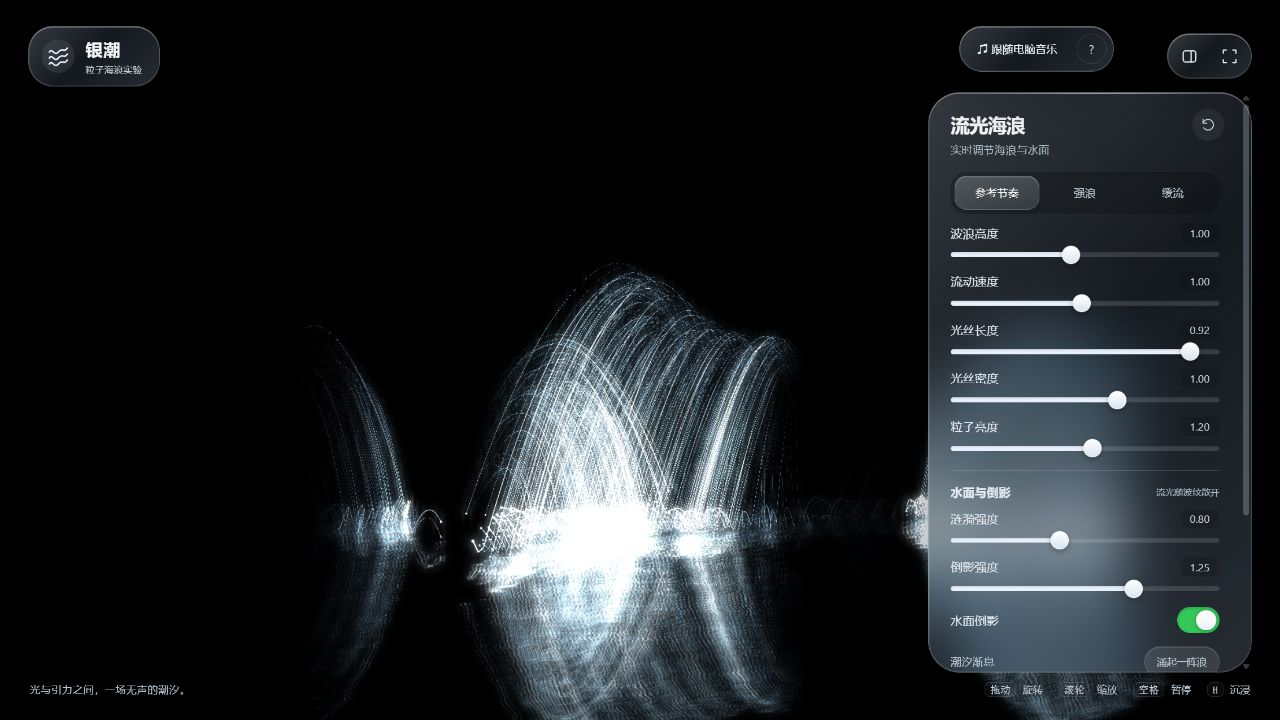
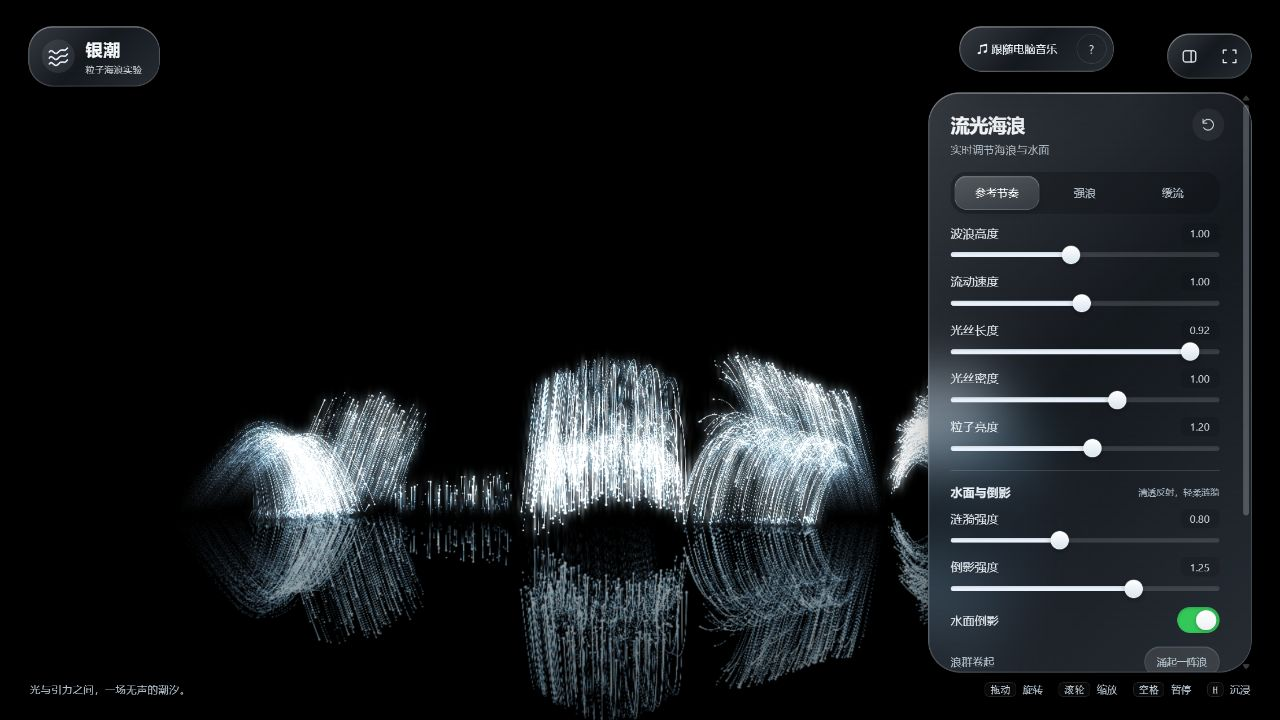
Refine water into a clear glasslike reflective surface

Changed region(s): [[0.1562, 0.3667, 0.9688, 1.0]]

diff --git a/downloads/silver-tide-standalone.html b/downloads/silver-tide-standalone.html
@@ -152,7 +152,7 @@ body.immersive .chrome *{pointer-events:none}
 <label for="trail">光丝长度 <output id="trail-out">0.92</output></label><input id="trail" type="range" min="0" max="1" step="0.01" value="0.92">
 <label for="density">光丝密度 <output id="density-out">1.00</output></label><input id="density" type="range" min="0.15" max="1.5" step="0.01" value="1">
 <label for="glow">粒子亮度 <output id="glow-out">1.20</output></label><input id="glow" type="range" min="0.3" max="2" step="0.01" value="1.2">
-<div class="water-controls"><span>水面与倒影</span><small>流光随波纹散开</small></div>
+<div class="water-controls"><span>水面与倒影</span><small>清透反射，轻柔涟漪</small></div>
 <label for="ripples">涟漪强度 <output id="ripples-out">0.80</output></label><input id="ripples" type="range" min="0" max="2" step="0.01" value="0.8">
 <label for="reflectivity">倒影强度 <output id="reflectivity-out">1.25</output></label><input id="reflectivity" type="range" min="0" max="1.8" step="0.01" value="1.25">
 </div>
@@ -271,7 +271,8 @@ void main(){
  if(uPoints<.5){vec2 d=(pb.xy/pb.w-pa.xy/pa.w)*uResolution;vec2 n=normalize(vec2(-d.y,d.x)+vec2(.0001));p.xy+=n*aCorner.x*aStyle.y*uScale*perspective/uResolution*p.w;}
  else p=pb;
  gl_Position=p;gl_PointSize=clamp((1.45+aStyle.y*1.3)*uScale*perspective,1.,7.);
- vAlpha=aStyle.x*(1.-smoothstep(48.,90.,p.w));vSide=aCorner.x;vTint=aStyle.z;
+ float surface=mix(.24,1.,smoothstep(.025,.38,mix(aStart.y,aEnd.y,aCorner.y)));
+ vAlpha=aStyle.x*surface*(1.-smoothstep(48.,90.,p.w));vSide=aCorner.x;vTint=aStyle.z;
 }`;
   const fragment=`precision highp float;
 uniform vec3 uColor;
@@ -298,43 +299,42 @@ uniform vec2 uTexel,uPointer;
 uniform vec4 uRings[3];
 uniform float uTime,uRipples,uReflection;
 varying vec2 vWorld;varying vec4 vClip;
-float hash(vec2 p){return fract(sin(dot(p,vec2(127.1,311.7)))*43758.5453);}
-float noise(vec2 p){vec2 i=floor(p),f=fract(p);f=f*f*(3.-2.*f);return mix(mix(hash(i),hash(i+vec2(1.,0.)),f.x),mix(hash(i+vec2(0.,1.)),hash(i+1.),f.x),f.y);}
 float height(vec2 p){
- float t=uTime;float h=sin(p.x*.8+p.y*2.4+t*.7)*.017+sin(p.x*1.8-p.y*4.3-t*.8)*.008;
- h+=(noise(p*vec2(2.2,5.1)+vec2(t*.15,-t*.25))-.5)*.015;
- float d=distance(p,uPointer);h+=sin(d*4.-t*4.)*exp(-d*.44)*.045;
- for(int i=0;i<3;i++){vec4 r=uRings[i];float d=distance(p,r.xy);float front=d-r.z*3.1;h+=sin(d*6.-r.z*13.)*exp(-front*front*.4-r.z*.8)*r.w*.07;}
+ float t=uTime;
+ float h=sin(p.x*.24+p.y*.39+t*.36)*.009+sin(p.x*.53-p.y*.21-t*.27)*.004;
+ float d=distance(p,uPointer);h+=sin(d*2.5-t*2.8)*exp(-d*.55)*.010;
+ for(int i=0;i<3;i++){vec4 r=uRings[i];float d=distance(p,r.xy);float front=d-r.z*2.7;h+=sin(front*3.7)*exp(-front*front*.85-r.z*1.05)*r.w*.022;}
  return h*uRipples;
 }
 void main(){
- vec2 p=vWorld;float h=height(p),e=.045;
+ vec2 p=vWorld;float h=height(p),e=.07;
  vec2 slope=vec2(height(p+vec2(e,0.))-h,height(p+vec2(0.,e))-h)/e;
  vec3 n=normalize(vec3(-slope.x,1.,-slope.y));vec3 eye=normalize(uEye-vec3(p.x,0.,p.y));
- float fresnel=.20+.8*pow(1.-max(0.,dot(n,eye)),3.);
+ float fresnel=.025+.975*pow(1.-max(0.,dot(n,eye)),5.);
  vec2 uv=vClip.xy/vClip.w*.5+.5;
- vec2 shift=vec2(slope.x*.022,slope.y*.017)*clamp(30./vClip.w,.4,2.);
+ vec2 shift=vec2(slope.x*.018,slope.y*.013)*clamp(30./vClip.w,.4,2.);
  uv+=shift;
- vec2 blur=uTexel*vec2(4.+abs(slope.y)*28.,.8);
- vec3 reflection=texture2D(uImage,clamp(uv,.001,.999)).rgb*.5+texture2D(uImage,clamp(uv+blur,.001,.999)).rgb*.25+texture2D(uImage,clamp(uv-blur,.001,.999)).rgb*.25;
- reflection*=uReflection*(.3+.8*fresnel*fresnel);
+ vec2 blur=uTexel*vec2(.65,.35);
+ vec3 reflection=texture2D(uImage,clamp(uv,.001,.999)).rgb*.86+texture2D(uImage,clamp(uv+blur,.001,.999)).rgb*.07+texture2D(uImage,clamp(uv-blur,.001,.999)).rgb*.07;
+ reflection=reflection/(1.+reflection*.32);
+ reflection*=vec3(.90,.97,1.)*uReflection*(.24+.82*fresnel);
  float attenuation=1.-smoothstep(40.,100.,length(uEye-vec3(p.x,0.,p.y)));
- gl_FragColor=vec4((reflection+vec3(.0002,.0006,.0011))*attenuation,1.);
+ gl_FragColor=vec4((reflection+vec3(.00003,.00008,.00013))*attenuation,1.);
 }`;
   this.water=this.link(waterVertex,waterFragment);this.wa=gl.getAttribLocation(this.water,'aPosition');this.wu=this.uniforms(this.water,['VP','Image','Eye','Color','Texel','Pointer','Time','Ripples','Reflection']);this.wu.Rings=gl.getUniformLocation(this.water,'uRings[0]');
   this.plane=gl.createBuffer();gl.bindBuffer(gl.ARRAY_BUFFER,this.plane);gl.bufferData(gl.ARRAY_BUFFER,new Float32Array([-100,-85,100,-85,-100,35,-100,35,100,-85,100,35]),gl.STATIC_DRAW);
   const blurFragment=`precision highp float;uniform sampler2D uImage;uniform vec2 uStep;varying vec2 vUV;void main(){vec3 c=texture2D(uImage,vUV).rgb*.227027;c+=texture2D(uImage,vUV+uStep*1.384615).rgb*.316216;c+=texture2D(uImage,vUV-uStep*1.384615).rgb*.316216;c+=texture2D(uImage,vUV+uStep*3.230769).rgb*.07027;c+=texture2D(uImage,vUV-uStep*3.230769).rgb*.07027;gl_FragColor=vec4(c,1.);}`;
   this.blur=this.link(screenVertex,blurFragment);this.ba=gl.getAttribLocation(this.blur,'aPosition');this.bu=this.uniforms(this.blur,['Image','Step']);
-  const finalFragment=`precision highp float;uniform sampler2D uImage,uBloom;uniform float uGlow;varying vec2 vUV;void main(){vec3 c=texture2D(uImage,vUV).rgb;vec3 b=texture2D(uBloom,vUV).rgb;c=c+b*uGlow*.92;c=pow(max(c,vec3(0.)),vec3(.92));gl_FragColor=vec4(c,1.);}`;
-  this.finish=this.link(screenVertex,finalFragment);this.ca=gl.getAttribLocation(this.finish,'aPosition');this.cu=this.uniforms(this.finish,['Image','Bloom','Glow']);
+  const finalFragment=`precision highp float;uniform sampler2D uImage,uLight,uBloom;uniform float uGlow;varying vec2 vUV;void main(){vec3 c=texture2D(uImage,vUV).rgb+texture2D(uLight,vUV).rgb;vec3 b=texture2D(uBloom,vUV).rgb;c=c+b*uGlow*.92;c=pow(max(c,vec3(0.)),vec3(.92));gl_FragColor=vec4(c,1.);}`;
+  this.finish=this.link(screenVertex,finalFragment);this.ca=gl.getAttribLocation(this.finish,'aPosition');this.cu=this.uniforms(this.finish,['Image','Light','Bloom','Glow']);
   this.screen=gl.createBuffer();gl.bindBuffer(gl.ARRAY_BUFFER,this.screen);gl.bufferData(gl.ARRAY_BUFFER,new Float32Array([-1,-1,1,-1,-1,1,-1,1,1,-1,1,1]),gl.STATIC_DRAW);
-  this.targets={mirror:this.target(),scene:this.target(),blurA:this.target(),blurB:this.target()};gl.disable(gl.DEPTH_TEST);gl.blendFunc(gl.ONE,gl.ONE);
+  this.targets={mirror:this.target(),scene:this.target(),light:this.target(),blurA:this.target(),blurB:this.target()};gl.disable(gl.DEPTH_TEST);gl.blendFunc(gl.ONE,gl.ONE);
  }
  link(v,f){const gl=this.gl,p=gl.createProgram();for(const [type,src] of [[gl.VERTEX_SHADER,v],[gl.FRAGMENT_SHADER,f]]){const s=gl.createShader(type);gl.shaderSource(s,src);gl.compileShader(s);if(!gl.getShaderParameter(s,gl.COMPILE_STATUS))throw Error(gl.getShaderInfoLog(s));gl.attachShader(p,s);}gl.linkProgram(p);if(!gl.getProgramParameter(p,gl.LINK_STATUS))throw Error(gl.getProgramInfoLog(p));return p;}
  uniforms(p,names){const o={};names.forEach(n=>o[n]=this.gl.getUniformLocation(p,'u'+n));return o;}
  target(){const gl=this.gl,t={texture:gl.createTexture(),fbo:gl.createFramebuffer()};gl.bindTexture(gl.TEXTURE_2D,t.texture);gl.texParameteri(gl.TEXTURE_2D,gl.TEXTURE_MIN_FILTER,gl.LINEAR);gl.texParameteri(gl.TEXTURE_2D,gl.TEXTURE_MAG_FILTER,gl.LINEAR);gl.texParameteri(gl.TEXTURE_2D,gl.TEXTURE_WRAP_S,gl.CLAMP_TO_EDGE);gl.texParameteri(gl.TEXTURE_2D,gl.TEXTURE_WRAP_T,gl.CLAMP_TO_EDGE);return t;}
  sizeTarget(t,w,h){const gl=this.gl;t.width=w;t.height=h;gl.bindTexture(gl.TEXTURE_2D,t.texture);gl.texImage2D(gl.TEXTURE_2D,0,gl.RGBA,w,h,0,gl.RGBA,gl.UNSIGNED_BYTE,null);gl.bindFramebuffer(gl.FRAMEBUFFER,t.fbo);gl.framebufferTexture2D(gl.FRAMEBUFFER,gl.COLOR_ATTACHMENT0,gl.TEXTURE_2D,t.texture,0);if(gl.checkFramebufferStatus(gl.FRAMEBUFFER)!==gl.FRAMEBUFFER_COMPLETE)throw Error('无法创建反射画面');}
- resize(w,h){this.width=w;this.height=h;this.sizeTarget(this.targets.scene,w,h);const s=Math.min(1,1600/w);this.sizeTarget(this.targets.mirror,Math.max(1,Math.round(w*s)),Math.max(1,Math.round(h*s)));for(const k of ['blurA','blurB'])this.sizeTarget(this.targets[k],Math.max(1,Math.round(w/4)),Math.max(1,Math.round(h/4)));this.gl.bindFramebuffer(this.gl.FRAMEBUFFER,null);}
+ resize(w,h){this.width=w;this.height=h;this.sizeTarget(this.targets.scene,w,h);this.sizeTarget(this.targets.light,w,h);const s=Math.min(1,1600/w);this.sizeTarget(this.targets.mirror,Math.max(1,Math.round(w*s)),Math.max(1,Math.round(h*s)));for(const k of ['blurA','blurB'])this.sizeTarget(this.targets[k],Math.max(1,Math.round(w/4)),Math.max(1,Math.round(h/4)));this.gl.bindFramebuffer(this.gl.FRAMEBUFFER,null);}
  upload(ocean,length,visibility=1){
   const h=ocean.history,N=FilamentOcean.HISTORY;let k=0,head=0;const maxAge=Math.max(2,Math.round((N-1)*length));
   for(const p of ocean.particles){
@@ -371,15 +371,16 @@ void main(){
  screenPass(program,loc){const gl=this.gl;this.disable();gl.useProgram(program);gl.disable(gl.BLEND);gl.bindBuffer(gl.ARRAY_BUFFER,this.screen);gl.enableVertexAttribArray(loc);gl.vertexAttribPointer(loc,2,gl.FLOAT,false,0,0);}
  render(vp,eye,params,ocean,pointer,color,drive,dpr){
   const gl=this.gl,t=this.targets,gain=2.6*params.glow,height=params.heightScale??1;
-  gl.activeTexture(gl.TEXTURE0);gl.bindTexture(gl.TEXTURE_2D,null);gl.activeTexture(gl.TEXTURE1);gl.bindTexture(gl.TEXTURE_2D,null);gl.activeTexture(gl.TEXTURE0);
-  this.bind(t.mirror);gl.clearColor(0,0,0,1);gl.clear(gl.COLOR_BUFFER_BIT);if(params.reflection)this.drawFibers(vp,1,t.mirror.width,t.mirror.height,dpr*t.mirror.width/this.width,color,gain,height);
+  gl.activeTexture(gl.TEXTURE2);gl.bindTexture(gl.TEXTURE_2D,null);gl.activeTexture(gl.TEXTURE1);gl.bindTexture(gl.TEXTURE_2D,null);gl.activeTexture(gl.TEXTURE0);gl.bindTexture(gl.TEXTURE_2D,null);
+  this.bind(t.mirror);gl.clearColor(0,0,0,1);gl.clear(gl.COLOR_BUFFER_BIT);if(params.reflection)this.drawFibers(vp,1,t.mirror.width,t.mirror.height,dpr*t.mirror.width/this.width,color,gain*.70,height);
   this.bind(t.scene);gl.clear(gl.COLOR_BUFFER_BIT);this.disable();gl.useProgram(this.water);gl.disable(gl.BLEND);gl.bindBuffer(gl.ARRAY_BUFFER,this.plane);gl.enableVertexAttribArray(this.wa);gl.vertexAttribPointer(this.wa,2,gl.FLOAT,false,0,0);
   const u=this.wu;gl.uniformMatrix4fv(u.VP,false,vp);gl.uniform3fv(u.Eye,eye);gl.uniform3fv(u.Color,color);gl.uniform2f(u.Texel,1/t.mirror.width,1/t.mirror.height);gl.uniform2fv(u.Pointer,pointer);gl.uniform1f(u.Time,ocean.clock);gl.uniform1f(u.Ripples,params.ripples);gl.uniform1f(u.Reflection,params.reflection?params.reflectivity:0);
   const rings=new Float32Array(12);for(let i=0;i<3;i++){const r=ocean.rings[i];rings.set(r?[r.x,r.z,ocean.clock-r.born,r.strength]:[80,80,100,0],i*4);}gl.uniform4fv(u.Rings,rings);gl.bindTexture(gl.TEXTURE_2D,t.mirror.texture);gl.uniform1i(u.Image,0);gl.drawArrays(gl.TRIANGLES,0,6);
-  this.drawFibers(vp,0,this.width,this.height,dpr,color,gain,height);
-  this.bind(t.blurA);this.screenPass(this.blur,this.ba);gl.bindTexture(gl.TEXTURE_2D,t.scene.texture);gl.uniform1i(this.bu.Image,0);gl.uniform2f(this.bu.Step,1/t.blurA.width,0);gl.drawArrays(gl.TRIANGLES,0,6);
+  // Filament light blooms independently of the polished, non-emissive water.
+  this.bind(t.light);gl.clear(gl.COLOR_BUFFER_BIT);this.drawFibers(vp,0,this.width,this.height,dpr,color,gain,height);
+  this.bind(t.blurA);this.screenPass(this.blur,this.ba);gl.bindTexture(gl.TEXTURE_2D,t.light.texture);gl.uniform1i(this.bu.Image,0);gl.uniform2f(this.bu.Step,1/t.blurA.width,0);gl.drawArrays(gl.TRIANGLES,0,6);
   this.bind(t.blurB);this.screenPass(this.blur,this.ba);gl.bindTexture(gl.TEXTURE_2D,t.blurA.texture);gl.uniform2f(this.bu.Step,0,1/t.blurB.height);gl.drawArrays(gl.TRIANGLES,0,6);
-  this.bind(null);this.screenPass(this.finish,this.ca);gl.bindTexture(gl.TEXTURE_2D,t.scene.texture);gl.uniform1i(this.cu.Image,0);gl.activeTexture(gl.TEXTURE1);gl.bindTexture(gl.TEXTURE_2D,t.blurB.texture);gl.uniform1i(this.cu.Bloom,1);gl.uniform1f(this.cu.Glow,params.glow);gl.drawArrays(gl.TRIANGLES,0,6);gl.activeTexture(gl.TEXTURE0);this.disable();
+  this.bind(null);this.screenPass(this.finish,this.ca);gl.bindTexture(gl.TEXTURE_2D,t.scene.texture);gl.uniform1i(this.cu.Image,0);gl.activeTexture(gl.TEXTURE1);gl.bindTexture(gl.TEXTURE_2D,t.blurB.texture);gl.uniform1i(this.cu.Bloom,1);gl.activeTexture(gl.TEXTURE2);gl.bindTexture(gl.TEXTURE_2D,t.light.texture);gl.uniform1i(this.cu.Light,2);gl.uniform1f(this.cu.Glow,params.glow);gl.drawArrays(gl.TRIANGLES,0,6);gl.activeTexture(gl.TEXTURE0);this.disable();
  }
 };
 })(globalThis);

diff --git a/web/filament-renderer.js b/web/filament-renderer.js
@@ -20,7 +20,8 @@ void main(){
  if(uPoints<.5){vec2 d=(pb.xy/pb.w-pa.xy/pa.w)*uResolution;vec2 n=normalize(vec2(-d.y,d.x)+vec2(.0001));p.xy+=n*aCorner.x*aStyle.y*uScale*perspective/uResolution*p.w;}
  else p=pb;
  gl_Position=p;gl_PointSize=clamp((1.45+aStyle.y*1.3)*uScale*perspective,1.,7.);
- vAlpha=aStyle.x*(1.-smoothstep(48.,90.,p.w));vSide=aCorner.x;vTint=aStyle.z;
+ float surface=mix(.24,1.,smoothstep(.025,.38,mix(aStart.y,aEnd.y,aCorner.y)));
+ vAlpha=aStyle.x*surface*(1.-smoothstep(48.,90.,p.w));vSide=aCorner.x;vTint=aStyle.z;
 }`;
   const fragment=`precision highp float;
 uniform vec3 uColor;
@@ -47,43 +48,42 @@ uniform vec2 uTexel,uPointer;
 uniform vec4 uRings[3];
 uniform float uTime,uRipples,uReflection;
 varying vec2 vWorld;varying vec4 vClip;
-float hash(vec2 p){return fract(sin(dot(p,vec2(127.1,311.7)))*43758.5453);}
-float noise(vec2 p){vec2 i=floor(p),f=fract(p);f=f*f*(3.-2.*f);return mix(mix(hash(i),hash(i+vec2(1.,0.)),f.x),mix(hash(i+vec2(0.,1.)),hash(i+1.),f.x),f.y);}
 float height(vec2 p){
- float t=uTime;float h=sin(p.x*.8+p.y*2.4+t*.7)*.017+sin(p.x*1.8-p.y*4.3-t*.8)*.008;
- h+=(noise(p*vec2(2.2,5.1)+vec2(t*.15,-t*.25))-.5)*.015;
- float d=distance(p,uPointer);h+=sin(d*4.-t*4.)*exp(-d*.44)*.045;
- for(int i=0;i<3;i++){vec4 r=uRings[i];float d=distance(p,r.xy);float front=d-r.z*3.1;h+=sin(d*6.-r.z*13.)*exp(-front*front*.4-r.z*.8)*r.w*.07;}
+ float t=uTime;
+ float h=sin(p.x*.24+p.y*.39+t*.36)*.009+sin(p.x*.53-p.y*.21-t*.27)*.004;
+ float d=distance(p,uPointer);h+=sin(d*2.5-t*2.8)*exp(-d*.55)*.010;
+ for(int i=0;i<3;i++){vec4 r=uRings[i];float d=distance(p,r.xy);float front=d-r.z*2.7;h+=sin(front*3.7)*exp(-front*front*.85-r.z*1.05)*r.w*.022;}
  return h*uRipples;
 }
 void main(){
- vec2 p=vWorld;float h=height(p),e=.045;
+ vec2 p=vWorld;float h=height(p),e=.07;
  vec2 slope=vec2(height(p+vec2(e,0.))-h,height(p+vec2(0.,e))-h)/e;
  vec3 n=normalize(vec3(-slope.x,1.,-slope.y));vec3 eye=normalize(uEye-vec3(p.x,0.,p.y));
- float fresnel=.20+.8*pow(1.-max(0.,dot(n,eye)),3.);
+ float fresnel=.025+.975*pow(1.-max(0.,dot(n,eye)),5.);
  vec2 uv=vClip.xy/vClip.w*.5+.5;
- vec2 shift=vec2(slope.x*.022,slope.y*.017)*clamp(30./vClip.w,.4,2.);
+ vec2 shift=vec2(slope.x*.018,slope.y*.013)*clamp(30./vClip.w,.4,2.);
  uv+=shift;
- vec2 blur=uTexel*vec2(4.+abs(slope.y)*28.,.8);
- vec3 reflection=texture2D(uImage,clamp(uv,.001,.999)).rgb*.5+texture2D(uImage,clamp(uv+blur,.001,.999)).rgb*.25+texture2D(uImage,clamp(uv-blur,.001,.999)).rgb*.25;
- reflection*=uReflection*(.3+.8*fresnel*fresnel);
+ vec2 blur=uTexel*vec2(.65,.35);
+ vec3 reflection=texture2D(uImage,clamp(uv,.001,.999)).rgb*.86+texture2D(uImage,clamp(uv+blur,.001,.999)).rgb*.07+texture2D(uImage,clamp(uv-blur,.001,.999)).rgb*.07;
+ reflection=reflection/(1.+reflection*.32);
+ reflection*=vec3(.90,.97,1.)*uReflection*(.24+.82*fresnel);
  float attenuation=1.-smoothstep(40.,100.,length(uEye-vec3(p.x,0.,p.y)));
- gl_FragColor=vec4((reflection+vec3(.0002,.0006,.0011))*attenuation,1.);
+ gl_FragColor=vec4((reflection+vec3(.00003,.00008,.00013))*attenuation,1.);
 }`;
   this.water=this.link(waterVertex,waterFragment);this.wa=gl.getAttribLocation(this.water,'aPosition');this.wu=this.uniforms(this.water,['VP','Image','Eye','Color','Texel','Pointer','Time','Ripples','Reflection']);this.wu.Rings=gl.getUniformLocation(this.water,'uRings[0]');
   this.plane=gl.createBuffer();gl.bindBuffer(gl.ARRAY_BUFFER,this.plane);gl.bufferData(gl.ARRAY_BUFFER,new Float32Array([-100,-85,100,-85,-100,35,-100,35,100,-85,100,35]),gl.STATIC_DRAW);
   const blurFragment=`precision highp float;uniform sampler2D uImage;uniform vec2 uStep;varying vec2 vUV;void main(){vec3 c=texture2D(uImage,vUV).rgb*.227027;c+=texture2D(uImage,vUV+uStep*1.384615).rgb*.316216;c+=texture2D(uImage,vUV-uStep*1.384615).rgb*.316216;c+=texture2D(uImage,vUV+uStep*3.230769).rgb*.07027;c+=texture2D(uImage,vUV-uStep*3.230769).rgb*.07027;gl_FragColor=vec4(c,1.);}`;
   this.blur=this.link(screenVertex,blurFragment);this.ba=gl.getAttribLocation(this.blur,'aPosition');this.bu=this.uniforms(this.blur,['Image','Step']);
-  const finalFragment=`precision highp float;uniform sampler2D uImage,uBloom;uniform float uGlow;varying vec2 vUV;void main(){vec3 c=texture2D(uImage,vUV).rgb;vec3 b=texture2D(uBloom,vUV).rgb;c=c+b*uGlow*.92;c=pow(max(c,vec3(0.)),vec3(.92));gl_FragColor=vec4(c,1.);}`;
-  this.finish=this.link(screenVertex,finalFragment);this.ca=gl.getAttribLocation(this.finish,'aPosition');this.cu=this.uniforms(this.finish,['Image','Bloom','Glow']);
+  const finalFragment=`precision highp float;uniform sampler2D uImage,uLight,uBloom;uniform float uGlow;varying vec2 vUV;void main(){vec3 c=texture2D(uImage,vUV).rgb+texture2D(uLight,vUV).rgb;vec3 b=texture2D(uBloom,vUV).rgb;c=c+b*uGlow*.92;c=pow(max(c,vec3(0.)),vec3(.92));gl_FragColor=vec4(c,1.);}`;
+  this.finish=this.link(screenVertex,finalFragment);this.ca=gl.getAttribLocation(this.finish,'aPosition');this.cu=this.uniforms(this.finish,['Image','Light','Bloom','Glow']);
   this.screen=gl.createBuffer();gl.bindBuffer(gl.ARRAY_BUFFER,this.screen);gl.bufferData(gl.ARRAY_BUFFER,new Float32Array([-1,-1,1,-1,-1,1,-1,1,1,-1,1,1]),gl.STATIC_DRAW);
-  this.targets={mirror:this.target(),scene:this.target(),blurA:this.target(),blurB:this.target()};gl.disable(gl.DEPTH_TEST);gl.blendFunc(gl.ONE,gl.ONE);
+  this.targets={mirror:this.target(),scene:this.target(),light:this.target(),blurA:this.target(),blurB:this.target()};gl.disable(gl.DEPTH_TEST);gl.blendFunc(gl.ONE,gl.ONE);
  }
  link(v,f){const gl=this.gl,p=gl.createProgram();for(const [type,src] of [[gl.VERTEX_SHADER,v],[gl.FRAGMENT_SHADER,f]]){const s=gl.createShader(type);gl.shaderSource(s,src);gl.compileShader(s);if(!gl.getShaderParameter(s,gl.COMPILE_STATUS))throw Error(gl.getShaderInfoLog(s));gl.attachShader(p,s);}gl.linkProgram(p);if(!gl.getProgramParameter(p,gl.LINK_STATUS))throw Error(gl.getProgramInfoLog(p));return p;}
  uniforms(p,names){const o={};names.forEach(n=>o[n]=this.gl.getUniformLocation(p,'u'+n));return o;}
  target(){const gl=this.gl,t={texture:gl.createTexture(),fbo:gl.createFramebuffer()};gl.bindTexture(gl.TEXTURE_2D,t.texture);gl.texParameteri(gl.TEXTURE_2D,gl.TEXTURE_MIN_FILTER,gl.LINEAR);gl.texParameteri(gl.TEXTURE_2D,gl.TEXTURE_MAG_FILTER,gl.LINEAR);gl.texParameteri(gl.TEXTURE_2D,gl.TEXTURE_WRAP_S,gl.CLAMP_TO_EDGE);gl.texParameteri(gl.TEXTURE_2D,gl.TEXTURE_WRAP_T,gl.CLAMP_TO_EDGE);return t;}
  sizeTarget(t,w,h){const gl=this.gl;t.width=w;t.height=h;gl.bindTexture(gl.TEXTURE_2D,t.texture);gl.texImage2D(gl.TEXTURE_2D,0,gl.RGBA,w,h,0,gl.RGBA,gl.UNSIGNED_BYTE,null);gl.bindFramebuffer(gl.FRAMEBUFFER,t.fbo);gl.framebufferTexture2D(gl.FRAMEBUFFER,gl.COLOR_ATTACHMENT0,gl.TEXTURE_2D,t.texture,0);if(gl.checkFramebufferStatus(gl.FRAMEBUFFER)!==gl.FRAMEBUFFER_COMPLETE)throw Error('无法创建反射画面');}
- resize(w,h){this.width=w;this.height=h;this.sizeTarget(this.targets.scene,w,h);const s=Math.min(1,1600/w);this.sizeTarget(this.targets.mirror,Math.max(1,Math.round(w*s)),Math.max(1,Math.round(h*s)));for(const k of ['blurA','blurB'])this.sizeTarget(this.targets[k],Math.max(1,Math.round(w/4)),Math.max(1,Math.round(h/4)));this.gl.bindFramebuffer(this.gl.FRAMEBUFFER,null);}
+ resize(w,h){this.width=w;this.height=h;this.sizeTarget(this.targets.scene,w,h);this.sizeTarget(this.targets.light,w,h);const s=Math.min(1,1600/w);this.sizeTarget(this.targets.mirror,Math.max(1,Math.round(w*s)),Math.max(1,Math.round(h*s)));for(const k of ['blurA','blurB'])this.sizeTarget(this.targets[k],Math.max(1,Math.round(w/4)),Math.max(1,Math.round(h/4)));this.gl.bindFramebuffer(this.gl.FRAMEBUFFER,null);}
  upload(ocean,length,visibility=1){
   const h=ocean.history,N=FilamentOcean.HISTORY;let k=0,head=0;const maxAge=Math.max(2,Math.round((N-1)*length));
   for(const p of ocean.particles){
@@ -120,15 +120,16 @@ void main(){
  screenPass(program,loc){const gl=this.gl;this.disable();gl.useProgram(program);gl.disable(gl.BLEND);gl.bindBuffer(gl.ARRAY_BUFFER,this.screen);gl.enableVertexAttribArray(loc);gl.vertexAttribPointer(loc,2,gl.FLOAT,false,0,0);}
  render(vp,eye,params,ocean,pointer,color,drive,dpr){
   const gl=this.gl,t=this.targets,gain=2.6*params.glow,height=params.heightScale??1;
-  gl.activeTexture(gl.TEXTURE0);gl.bindTexture(gl.TEXTURE_2D,null);gl.activeTexture(gl.TEXTURE1);gl.bindTexture(gl.TEXTURE_2D,null);gl.activeTexture(gl.TEXTURE0);
-  this.bind(t.mirror);gl.clearColor(0,0,0,1);gl.clear(gl.COLOR_BUFFER_BIT);if(params.reflection)this.drawFibers(vp,1,t.mirror.width,t.mirror.height,dpr*t.mirror.width/this.width,color,gain,height);
+  gl.activeTexture(gl.TEXTURE2);gl.bindTexture(gl.TEXTURE_2D,null);gl.activeTexture(gl.TEXTURE1);gl.bindTexture(gl.TEXTURE_2D,null);gl.activeTexture(gl.TEXTURE0);gl.bindTexture(gl.TEXTURE_2D,null);
+  this.bind(t.mirror);gl.clearColor(0,0,0,1);gl.clear(gl.COLOR_BUFFER_BIT);if(params.reflection)this.drawFibers(vp,1,t.mirror.width,t.mirror.height,dpr*t.mirror.width/this.width,color,gain*.70,height);
   this.bind(t.scene);gl.clear(gl.COLOR_BUFFER_BIT);this.disable();gl.useProgram(this.water);gl.disable(gl.BLEND);gl.bindBuffer(gl.ARRAY_BUFFER,this.plane);gl.enableVertexAttribArray(this.wa);gl.vertexAttribPointer(this.wa,2,gl.FLOAT,false,0,0);
   const u=this.wu;gl.uniformMatrix4fv(u.VP,false,vp);gl.uniform3fv(u.Eye,eye);gl.uniform3fv(u.Color,color);gl.uniform2f(u.Texel,1/t.mirror.width,1/t.mirror.height);gl.uniform2fv(u.Pointer,pointer);gl.uniform1f(u.Time,ocean.clock);gl.uniform1f(u.Ripples,params.ripples);gl.uniform1f(u.Reflection,params.reflection?params.reflectivity:0);
   const rings=new Float32Array(12);for(let i=0;i<3;i++){const r=ocean.rings[i];rings.set(r?[r.x,r.z,ocean.clock-r.born,r.strength]:[80,80,100,0],i*4);}gl.uniform4fv(u.Rings,rings);gl.bindTexture(gl.TEXTURE_2D,t.mirror.texture);gl.uniform1i(u.Image,0);gl.drawArrays(gl.TRIANGLES,0,6);
-  this.drawFibers(vp,0,this.width,this.height,dpr,color,gain,height);
-  this.bind(t.blurA);this.screenPass(this.blur,this.ba);gl.bindTexture(gl.TEXTURE_2D,t.scene.texture);gl.uniform1i(this.bu.Image,0);gl.uniform2f(this.bu.Step,1/t.blurA.width,0);gl.drawArrays(gl.TRIANGLES,0,6);
+  // Filament light blooms independently of the polished, non-emissive water.
+  this.bind(t.light);gl.clear(gl.COLOR_BUFFER_BIT);this.drawFibers(vp,0,this.width,this.height,dpr,color,gain,height);
+  this.bind(t.blurA);this.screenPass(this.blur,this.ba);gl.bindTexture(gl.TEXTURE_2D,t.light.texture);gl.uniform1i(this.bu.Image,0);gl.uniform2f(this.bu.Step,1/t.blurA.width,0);gl.drawArrays(gl.TRIANGLES,0,6);
   this.bind(t.blurB);this.screenPass(this.blur,this.ba);gl.bindTexture(gl.TEXTURE_2D,t.blurA.texture);gl.uniform2f(this.bu.Step,0,1/t.blurB.height);gl.drawArrays(gl.TRIANGLES,0,6);
-  this.bind(null);this.screenPass(this.finish,this.ca);gl.bindTexture(gl.TEXTURE_2D,t.scene.texture);gl.uniform1i(this.cu.Image,0);gl.activeTexture(gl.TEXTURE1);gl.bindTexture(gl.TEXTURE_2D,t.blurB.texture);gl.uniform1i(this.cu.Bloom,1);gl.uniform1f(this.cu.Glow,params.glow);gl.drawArrays(gl.TRIANGLES,0,6);gl.activeTexture(gl.TEXTURE0);this.disable();
+  this.bind(null);this.screenPass(this.finish,this.ca);gl.bindTexture(gl.TEXTURE_2D,t.scene.texture);gl.uniform1i(this.cu.Image,0);gl.activeTexture(gl.TEXTURE1);gl.bindTexture(gl.TEXTURE_2D,t.blurB.texture);gl.uniform1i(this.cu.Bloom,1);gl.activeTexture(gl.TEXTURE2);gl.bindTexture(gl.TEXTURE_2D,t.light.texture);gl.uniform1i(this.cu.Light,2);gl.uniform1f(this.cu.Glow,params.glow);gl.drawArrays(gl.TRIANGLES,0,6);gl.activeTexture(gl.TEXTURE0);this.disable();
  }
 };
 })(globalThis);

diff --git a/web/index.html b/web/index.html
@@ -4,7 +4,7 @@
 <meta charset="utf-8"><meta name="viewport" content="width=device-width, initial-scale=1">
 <meta name="theme-color" content="#030609"><meta name="description" content="银白粒子汇成海浪，光丝流动，倒影随波起伏。可调节的实时粒子海浪实验。">
 <title>银潮 · 流光海浪</title>
-<link rel="stylesheet" href="glass.css?v=20261026-glass">
+<link rel="stylesheet" href="glass.css?v=20261026-clear-water">
 </head>
 <body>
 <canvas id="ocean" aria-label="实时银白色粒子海浪，拖动改变视角，滚轮缩放"></canvas>
@@ -20,7 +20,7 @@
 <label for="trail">光丝长度 <output id="trail-out">0.92</output></label><input id="trail" type="range" min="0" max="1" step="0.01" value="0.92">
 <label for="density">光丝密度 <output id="density-out">1.00</output></label><input id="density" type="range" min="0.15" max="1.5" step="0.01" value="1">
 <label for="glow">粒子亮度 <output id="glow-out">1.20</output></label><input id="glow" type="range" min="0.3" max="2" step="0.01" value="1.2">
-<div class="water-controls"><span>水面与倒影</span><small>流光随波纹散开</small></div>
+<div class="water-controls"><span>水面与倒影</span><small>清透反射，轻柔涟漪</small></div>
 <label for="ripples">涟漪强度 <output id="ripples-out">0.80</output></label><input id="ripples" type="range" min="0" max="2" step="0.01" value="0.8">
 <label for="reflectivity">倒影强度 <output id="reflectivity-out">1.25</output></label><input id="reflectivity" type="range" min="0" max="1.8" step="0.01" value="1.25">
 </div>
@@ -50,5 +50,5 @@
 <button id="copy-audio-link">复制网页链接</button><input id="audio-page-link" type="text" readonly aria-label="网页链接" hidden>
 </section>
 <div id="toast" role="status" aria-live="polite"></div>
-<script src="reference-rhythm.js?v=20261026-glass"></script><script src="filament-ocean.js?v=20261026-glass"></script><script src="filament-renderer.js?v=20261026-glass"></script><script src="audio-input.js?v=20261026-glass"></script><script src="music-motion.js?v=20261026-glass"></script><script src="experience.js?v=20261026-glass"></script>
+<script src="reference-rhythm.js?v=20261026-clear-water"></script><script src="filament-ocean.js?v=20261026-clear-water"></script><script src="filament-renderer.js?v=20261026-clear-water"></script><script src="audio-input.js?v=20261026-clear-water"></script><script src="music-motion.js?v=20261026-clear-water"></script><script src="experience.js?v=20261026-clear-water"></script>
 </body></html>

diff --git a/README.md b/README.md
@@ -1,6 +1,6 @@
 # 银潮 · 流光海浪
 
-银白光丝组成的实时海浪：包含涟漪、倒影、回落与弹起效果，以及 Apple 风格的玻璃控制面板。同时提供独立网页版、原生 Rive 重制版与完整源项目。
+银白光丝组成的实时海浪：包含清透玻璃水面、轻柔涟漪、清晰倒影、回落与弹起效果，以及 Apple 风格的玻璃控制面板。同时提供独立网页版、原生 Rive 重制版与完整源项目。
 
 ![网页版预览](docs/web-preview.png)
 
